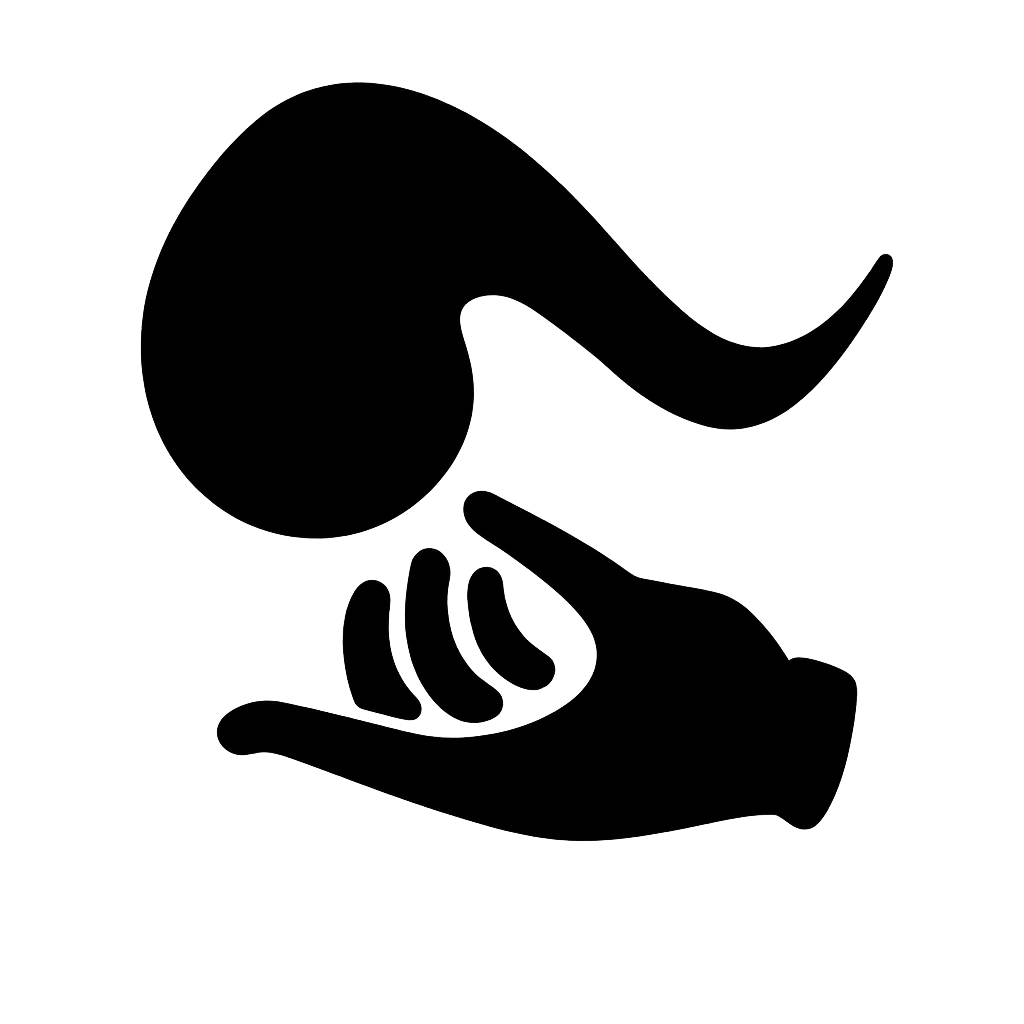
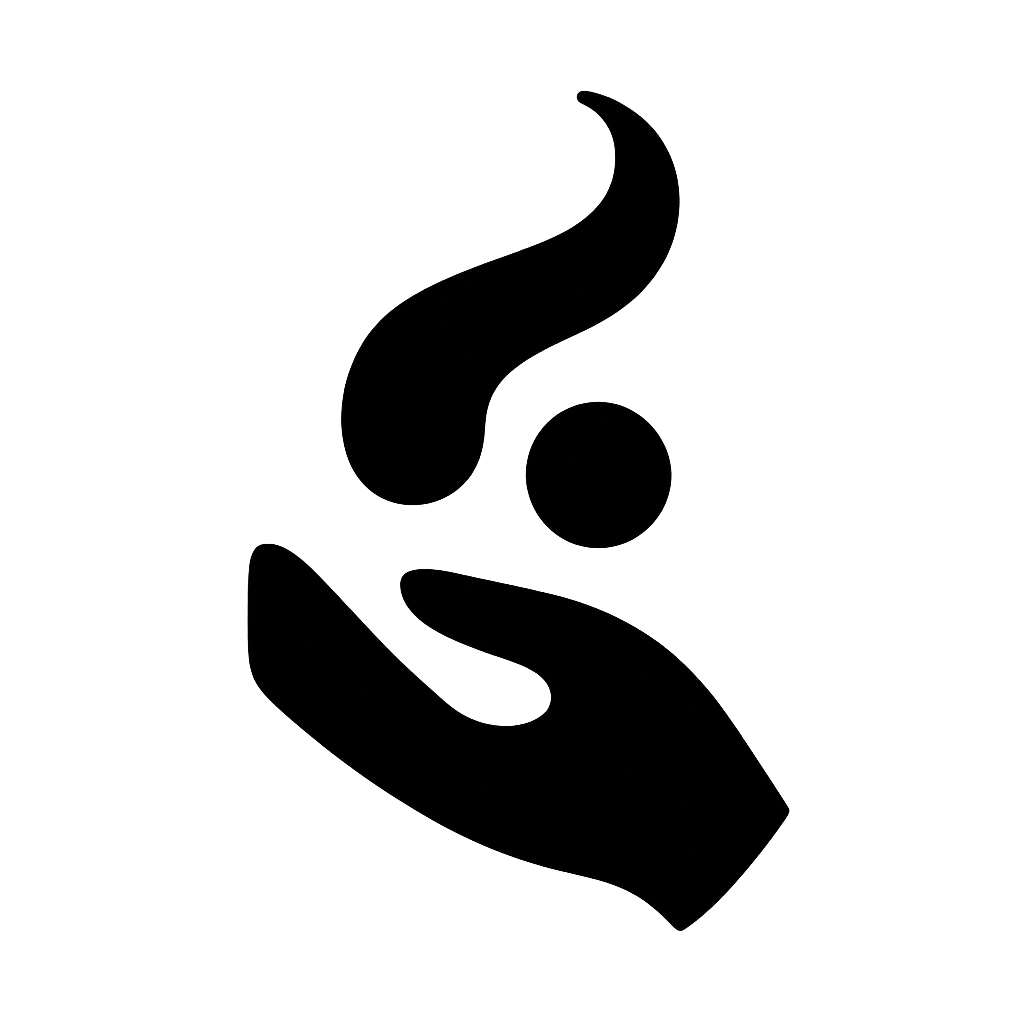
feat(vr): Implement customizable colors for tool buttons

Changed region(s): [[0.125, 0.0625, 0.875, 0.9062]]

diff --git a/shell/main.cpp b/shell/main.cpp
@@ -832,7 +832,7 @@ namespace { // Anonymous namespace for helpers
     }
 
     // --- NEW: Factory function to create the tool menu panel ---
-    void SetupToolMenuPanel(Urbaxio::UI::VRUIManager& vruiManager, Urbaxio::Tools::ToolManager& toolManager, unsigned int dragIconTexture, unsigned int selectIcon, unsigned int lineIcon, unsigned int pushpullIcon, unsigned int moveIcon, unsigned int closeIconTexture, unsigned int minimizeIconTexture) {
+    void SetupStandardToolsPanel(Urbaxio::UI::VRUIManager& vruiManager, Urbaxio::Tools::ToolManager& toolManager, unsigned int dragIconTexture, unsigned int selectIcon, unsigned int lineIcon, unsigned int pushpullIcon, unsigned int moveIcon, unsigned int paintIcon, unsigned int closeIconTexture, unsigned int minimizeIconTexture) {
         // --- FINAL: Default transform values from your tuning ---
         glm::vec3 translation = glm::vec3(0.059f, -0.033f, -0.050f);
         glm::vec3 eulerAnglesRad = glm::radians(glm::vec3(-113.214f, 3.417f, -3.030f));
@@ -847,20 +847,74 @@ namespace { // Anonymous namespace for helpers
         float panelHeight = 0.394f;
         float cornerRadius = 0.5f;
 
-        const int numButtons = 4;
-        float buttonHeight = panelHeight / (numButtons + 1.5f);
-        float buttonSpacing = buttonHeight * 1.6f;
-
-        auto& toolMenu = vruiManager.AddPanel("ToolMenu", "Tools", glm::vec2(panelWidth, panelHeight), panelOffset, cornerRadius, dragIconTexture, closeIconTexture, minimizeIconTexture);
+        auto& toolMenu = vruiManager.AddPanel("StandardTools", "Standard", glm::vec2(panelWidth, panelHeight), panelOffset, cornerRadius, dragIconTexture, closeIconTexture, minimizeIconTexture);
         
-        toolMenu.SetLayout(std::make_unique<Urbaxio::UI::VerticalLayout>(buttonSpacing - buttonHeight, true));
+        // Adjust layout for 5 buttons
+        toolMenu.SetLayout(std::make_unique<Urbaxio::UI::VerticalLayout>(0.015f, true)); // Reduced spacing a bit
 
         toolMenu.AddWidget(std::make_unique<Urbaxio::UI::VRToolButtonWidget>("Select", glm::vec3(0), glm::vec2(0), selectIcon, Urbaxio::Tools::ToolType::Select, toolManager, [&toolManager]() { toolManager.SetTool(Urbaxio::Tools::ToolType::Select); }));
         toolMenu.AddWidget(std::make_unique<Urbaxio::UI::VRToolButtonWidget>("Line", glm::vec3(0), glm::vec2(0), lineIcon, Urbaxio::Tools::ToolType::Line, toolManager, [&toolManager]() { toolManager.SetTool(Urbaxio::Tools::ToolType::Line); }));
         toolMenu.AddWidget(std::make_unique<Urbaxio::UI::VRToolButtonWidget>("Push/Pull", glm::vec3(0), glm::vec2(0), pushpullIcon, Urbaxio::Tools::ToolType::PushPull, toolManager, [&toolManager]() { toolManager.SetTool(Urbaxio::Tools::ToolType::PushPull); }));
         toolMenu.AddWidget(std::make_unique<Urbaxio::UI::VRToolButtonWidget>("Move", glm::vec3(0), glm::vec2(0), moveIcon, Urbaxio::Tools::ToolType::Move, toolManager, [&toolManager]() { toolManager.SetTool(Urbaxio::Tools::ToolType::Move); }));
+        toolMenu.AddWidget(std::make_unique<Urbaxio::UI::VRToolButtonWidget>("Paint", glm::vec3(0), glm::vec2(0), paintIcon, Urbaxio::Tools::ToolType::Paint, toolManager, [&toolManager]() { toolManager.SetTool(Urbaxio::Tools::ToolType::Paint); }));
 
         toolMenu.RecalculateLayout();
+    }
+
+    void SetupSculptToolsPanel(Urbaxio::UI::VRUIManager& vruiManager, Urbaxio::Tools::ToolManager& toolManager, const Urbaxio::Tools::ToolContext& toolContext, unsigned int dragIcon, unsigned int sculptIcon, unsigned int sculptDrawIcon, unsigned int sculptPinchIcon, unsigned int sculptSmoothIcon, unsigned int voxelizationIcon, unsigned int closeIcon, unsigned int minimizeIcon) {
+        // Position it to the right of the standard tools panel
+        glm::vec3 translation = glm::vec3(0.096f, -0.035f, -0.052f);
+        glm::vec3 eulerAnglesRad = glm::radians(glm::vec3(-113.341f, 2.228f, -6.367f));
+        glm::vec3 scale = glm::vec3(0.403f, 0.403f, 0.403f);
+
+        glm::mat4 panelOffset = glm::translate(glm::mat4(1.0f), translation) *
+                                glm::mat4_cast(glm::quat(eulerAnglesRad)) *
+                                glm::scale(glm::mat4(1.0f), scale);
+
+        // Adjust panel size for 5 buttons
+        float panelWidth = 0.064f;
+        float panelHeight = 0.394f; // Same height as standard tools
+        float cornerRadius = 0.5f;
+
+        auto& sculptMenu = vruiManager.AddPanel("SculptureTools", "Sculpture", glm::vec2(panelWidth, panelHeight), panelOffset, cornerRadius, dragIcon, closeIcon, minimizeIcon);
+        
+        sculptMenu.SetLayout(std::make_unique<Urbaxio::UI::VerticalLayout>(0.015f, true)); // Same layout
+
+        // Voxelize Action Button Callback
+        auto voxelizeCallback = [&toolContext]() {
+            if (toolContext.selectedObjId && *toolContext.selectedObjId != 0 && toolContext.scene && toolContext.loadingManager) {
+                Urbaxio::Engine::SceneObject* obj = toolContext.scene->get_object_by_id(*toolContext.selectedObjId);
+                if (obj && dynamic_cast<Urbaxio::Engine::BRepGeometry*>(obj->getGeometry())) {
+                    // Using a fixed resolution for now, can be made configurable later
+                    toolContext.loadingManager->RequestVoxelize(toolContext.scene, *toolContext.selectedObjId, 128);
+                }
+            }
+        };
+        
+        // Placeholder for unimplemented tools
+        auto placeholderCallback = [](){ std::cout << "VR UI: This sculpt tool is not yet implemented." << std::endl; };
+
+        // Define the custom color themes for the sculpt panel
+        const Urbaxio::UI::ToolButtonColors sculptInactiveColors = { 
+            {0.04f, 0.89f, 0.03f}, // base
+            {0.68f, 0.47f, 0.99f}, // aberration1
+            {0.59f, 0.99f, 0.62f}  // aberration2
+            
+        };
+        const Urbaxio::UI::ToolButtonColors sculptSelectedColors = { 
+            {0.96f, 0.22f, 0.29f}, // base
+            {0.99f, 0.29f, 0.66f}, // aberration1
+            {0.99f, 0.46f, 0.29f}  // aberration2
+        };
+
+        // Add buttons to the panel, passing the new color themes
+        sculptMenu.AddWidget(std::make_unique<Urbaxio::UI::VRToolButtonWidget>("Sculpt", glm::vec3(0), glm::vec2(0), sculptIcon, Urbaxio::Tools::ToolType::Sculpt, toolManager, [&toolManager]() { toolManager.SetTool(Urbaxio::Tools::ToolType::Sculpt); }, sculptSelectedColors, sculptInactiveColors));
+        sculptMenu.AddWidget(std::make_unique<Urbaxio::UI::VRToolButtonWidget>("Draw", glm::vec3(0), glm::vec2(0), sculptDrawIcon, Urbaxio::Tools::ToolType::SculptDraw, toolManager, [&toolManager]() { toolManager.SetTool(Urbaxio::Tools::ToolType::SculptDraw); std::cout << "VR UI: This sculpt tool is not yet implemented." << std::endl; }, sculptSelectedColors, sculptInactiveColors));
+        sculptMenu.AddWidget(std::make_unique<Urbaxio::UI::VRToolButtonWidget>("Pinch", glm::vec3(0), glm::vec2(0), sculptPinchIcon, Urbaxio::Tools::ToolType::SculptPinch, toolManager, [&toolManager]() { toolManager.SetTool(Urbaxio::Tools::ToolType::SculptPinch); std::cout << "VR UI: This sculpt tool is not yet implemented." << std::endl; }, sculptSelectedColors, sculptInactiveColors));
+        sculptMenu.AddWidget(std::make_unique<Urbaxio::UI::VRToolButtonWidget>("Smooth", glm::vec3(0), glm::vec2(0), sculptSmoothIcon, Urbaxio::Tools::ToolType::SculptSmooth, toolManager, [&toolManager]() { toolManager.SetTool(Urbaxio::Tools::ToolType::SculptSmooth); std::cout << "VR UI: This sculpt tool is not yet implemented." << std::endl; }, sculptSelectedColors, sculptInactiveColors));
+        sculptMenu.AddWidget(std::make_unique<Urbaxio::UI::VRToolButtonWidget>("Voxelize", glm::vec3(0), glm::vec2(0), voxelizationIcon, Urbaxio::Tools::ToolType::VoxelizeAction, toolManager, voxelizeCallback, sculptSelectedColors, sculptInactiveColors));
+        
+        sculptMenu.RecalculateLayout();
     }
 
     void SetupFileMenuPanel(Urbaxio::UI::VRUIManager& vruiManager, unsigned int dragIcon, unsigned int closeIcon, unsigned int minimizeIcon, SDL_Window* window, std::atomic<bool>& isFileDialogActive, std::atomic<bool>& fileDialogResultReady, std::string& filePathFromDialog, std::mutex& filePathMutex, bool& isImportDialog) {
@@ -1189,6 +1243,12 @@ int main(int argc, char* argv[]) {
     unsigned int lineIconTexture = load_icon("line_icon.png");
     unsigned int pushpullIconTexture = load_icon("pushpull_icon.png");
     unsigned int moveIconTexture = load_icon("move_icon.png");
+    unsigned int paintBucketIconTexture = load_icon("paint_bucket_icon.png");
+    unsigned int sculptIconTexture = load_icon("clay_two_hands.png");
+    unsigned int sculptDrawIconTexture = load_icon("clay_control.png");
+    unsigned int sculptPinchIconTexture = load_icon("clay_pinch.png");
+    unsigned int sculptSmoothIconTexture = load_icon("clay_smooth.png");
+    unsigned int voxelizationIconTexture = load_icon("voxelization.png");
     unsigned int closeIconTexture = load_icon("close_icon.png");
     unsigned int minimizeIconTexture = load_icon("minimize_icon.png");
     unsigned int panelManagerIconTexture = load_icon("panel_manager.png");
@@ -1196,7 +1256,8 @@ int main(int argc, char* argv[]) {
 
     // --- NEW: Setup our VR panels using the new system ---
     SetupVRPanels(vruiManager, g_newNumpadInput, toolManager, numpadInputActive, toolContext, dragIconTexture, closeIconTexture, minimizeIconTexture);
-    SetupToolMenuPanel(vruiManager, toolManager, dragIconTexture, selectIconTexture, lineIconTexture, pushpullIconTexture, moveIconTexture, closeIconTexture, minimizeIconTexture);
+    SetupStandardToolsPanel(vruiManager, toolManager, dragIconTexture, selectIconTexture, lineIconTexture, pushpullIconTexture, moveIconTexture, paintBucketIconTexture, closeIconTexture, minimizeIconTexture);
+    SetupSculptToolsPanel(vruiManager, toolManager, toolContext, dragIconTexture, sculptIconTexture, sculptDrawIconTexture, sculptPinchIconTexture, sculptSmoothIconTexture, voxelizationIconTexture, closeIconTexture, minimizeIconTexture);
     SetupPanelManagerPanel(vruiManager, dragIconTexture, closeIconTexture, minimizeIconTexture, backIconTexture);
     SetupFileMenuPanel(vruiManager, dragIconTexture, closeIconTexture, minimizeIconTexture, window, isFileDialogActive, fileDialogResultReady, filePathFromDialog, filePathMutex, isImportDialog);
     
@@ -1618,12 +1679,6 @@ int main(int argc, char* argv[]) {
             ImGui::SameLine();
             bool isPushPull = activeToolType == Urbaxio::Tools::ToolType::PushPull;
             if (ImGui::RadioButton("Push/Pull", isPushPull)) toolManager.SetTool(Urbaxio::Tools::ToolType::PushPull);
-            ImGui::SameLine(); // <-- NEW
-            bool isPaint = activeToolType == Urbaxio::Tools::ToolType::Paint; // <-- NEW
-            if (ImGui::RadioButton("Paint", isPaint)) toolManager.SetTool(Urbaxio::Tools::ToolType::Paint); // <-- NEW
-            ImGui::SameLine();
-            bool isSculpt = activeToolType == Urbaxio::Tools::ToolType::Sculpt;
-            if (ImGui::RadioButton("Sculpt", isSculpt)) toolManager.SetTool(Urbaxio::Tools::ToolType::Sculpt);
 
             if (ImGui::Button("Clear Lines") && scene_ptr) { 
                 scene_ptr->ClearUserLines(); 

diff --git a/shell/src/ui/VRToolButtonWidget.cpp b/shell/src/ui/VRToolButtonWidget.cpp
@@ -10,10 +10,13 @@ namespace Urbaxio::UI {
 VRToolButtonWidget::VRToolButtonWidget(const std::string& text, const glm::vec3& localPos, const glm::vec2& size,
                                        GLuint textureId,
                                        Urbaxio::Tools::ToolType toolType, Urbaxio::Tools::ToolManager& toolManager,
-                                       std::function<void()> onClick)
+                                       std::function<void()> onClick,
+                                       const ToolButtonColors& selectedColors,
+                                       const ToolButtonColors& inactiveColors)
     : text_(text), localPosition_(localPos), size_(size), 
       textureId_(textureId),
-      toolType_(toolType), toolManager_(toolManager), onClick_(onClick) {}
+      toolType_(toolType), toolManager_(toolManager), onClick_(onClick),
+      selectedColors_(selectedColors), inactiveColors_(inactiveColors) {}
 
 void VRToolButtonWidget::Update(const Ray& localRay, bool triggerPressed, bool triggerReleased, bool triggerHeld, bool aButtonPressed, float stickY) {
     const float FADE_SPEED = 0.15f;
@@ -75,11 +78,8 @@ void VRToolButtonWidget::Render(Urbaxio::Renderer& renderer, Urbaxio::TextRender
 
     float aberration = 0.05f + sphereHoverAlpha_ * 0.10f;
     
-    glm::vec3 baseColor = isSelected ? selectedColor_ : inactiveColor_;
-    glm::vec3 abColor1 = isSelected ? orange_aberration1_ : blue_aberration1_;
-    glm::vec3 abColor2 = isSelected ? orange_aberration2_ : blue_aberration2_;
-
-    renderer.RenderVRMenuWidget(view, projection, sphereModel, baseColor, aberration, alpha, abColor1, abColor2);
+    const auto& currentColors = isSelected ? selectedColors_ : inactiveColors_;
+    renderer.RenderVRMenuWidget(view, projection, sphereModel, currentColors.base, aberration, alpha, currentColors.aberration1, currentColors.aberration2);
 
     if (textureId_ != 0) {
         // -- START OF MODIFICATION --

diff --git a/shell/include/ui/VRToolButtonWidget.h b/shell/include/ui/VRToolButtonWidget.h
@@ -17,12 +17,21 @@ namespace Urbaxio {
 
 namespace Urbaxio::UI {
 
+// A struct to hold a complete color theme for a button state
+struct ToolButtonColors {
+    glm::vec3 base;
+    glm::vec3 aberration1;
+    glm::vec3 aberration2;
+};
+
 class VRToolButtonWidget : public IVRWidget {
 public:
     VRToolButtonWidget(const std::string& text, const glm::vec3& localPos, const glm::vec2& size,
                        GLuint textureId,
                        Urbaxio::Tools::ToolType toolType, Urbaxio::Tools::ToolManager& toolManager,
-                       std::function<void()> onClick);
+                       std::function<void()> onClick,
+                       const ToolButtonColors& selectedColors = { {1.0f, 0.79f, 0.4f}, {1.00f, 0.84f, 0.26f}, {1.0f, 0.1f, 0.1f} },
+                       const ToolButtonColors& inactiveColors = { {0.3f, 0.75f, 1.0f}, {0.67f, 0.5f, 1.0f}, {0.3f, 1.0f, 0.76f} });
 
     void Update(const Ray& localRay, bool triggerPressed, bool triggerReleased, bool triggerHeld, bool aButtonPressed, float stickY) override;
     void Render(Urbaxio::Renderer& renderer, Urbaxio::TextRenderer& textRenderer, const glm::mat4& panelTransform, const glm::mat4& view, const glm::mat4& projection, float alpha, const std::optional<MaskData>& mask = std::nullopt) const override;
@@ -46,14 +55,8 @@ private:
     float sphereHoverAlpha_ = 0.0f;
     float textHoverAlpha_ = 0.0f;
 
-    // Colors for the sphere indicator
-    glm::vec3 selectedColor_ = glm::vec3(1.0f, 0.79f, 0.4f);
-    glm::vec3 orange_aberration1_ = glm::vec3(1.00f, 0.84f, 0.26f);
-    glm::vec3 orange_aberration2_ = glm::vec3(1.0f, 0.1f, 0.1f);
-
-    glm::vec3 inactiveColor_ = glm::vec3(0.3f, 0.75f, 1.0f);
-    glm::vec3 blue_aberration1_ = glm::vec3(0.67f, 0.5f, 1.0f);
-    glm::vec3 blue_aberration2_ = glm::vec3(0.3f, 1.0f, 0.76f);
+    ToolButtonColors selectedColors_;
+    ToolButtonColors inactiveColors_;
 };
 
 } // namespace Urbaxio::UI

diff --git a/shell/src/ui/VRConfirmButtonWidget.cpp b/shell/src/ui/VRConfirmButtonWidget.cpp
@@ -200,6 +200,11 @@ void VRConfirmButtonWidget::SetLocalPosition(const glm::vec3& pos) { localPositi
 
 const glm::vec3& VRConfirmButtonWidget::GetLocalPosition() const { return localPosition_; }
 
+void VRConfirmButtonWidget::SetSize(const glm::vec2& size) {
+    // For a sphere in a vertical layout, the height is the most relevant dimension for diameter.
+    diameter_ = size.y;
+}
+
 glm::vec2 VRConfirmButtonWidget::GetSize() const { return {diameter_, diameter_}; }
 
 } // namespace Urbaxio::UI

diff --git a/shell/include/ui/VRConfirmButtonWidget.h b/shell/include/ui/VRConfirmButtonWidget.h
@@ -33,6 +33,7 @@ public:
 
     void SetLocalPosition(const glm::vec3& pos) override;
     const glm::vec3& GetLocalPosition() const override;
+    void SetSize(const glm::vec2& size) override;
     glm::vec2 GetSize() const override;
 
     void SetIconOffsetUseCameraForward(bool useCameraForward) { iconOffsetUseCameraForward_ = useCameraForward; }

diff --git a/shell/include/tools/ITool.h b/shell/include/tools/ITool.h
@@ -28,7 +28,11 @@ enum class ToolType {
     PushPull,
     Move,
     Paint,
-    Sculpt
+    Sculpt,
+    SculptDraw,
+    SculptPinch,
+    SculptSmooth,
+    VoxelizeAction // A dummy type for one-shot action buttons
 };
 
 // Bundles common objects and state that tools need to access.
